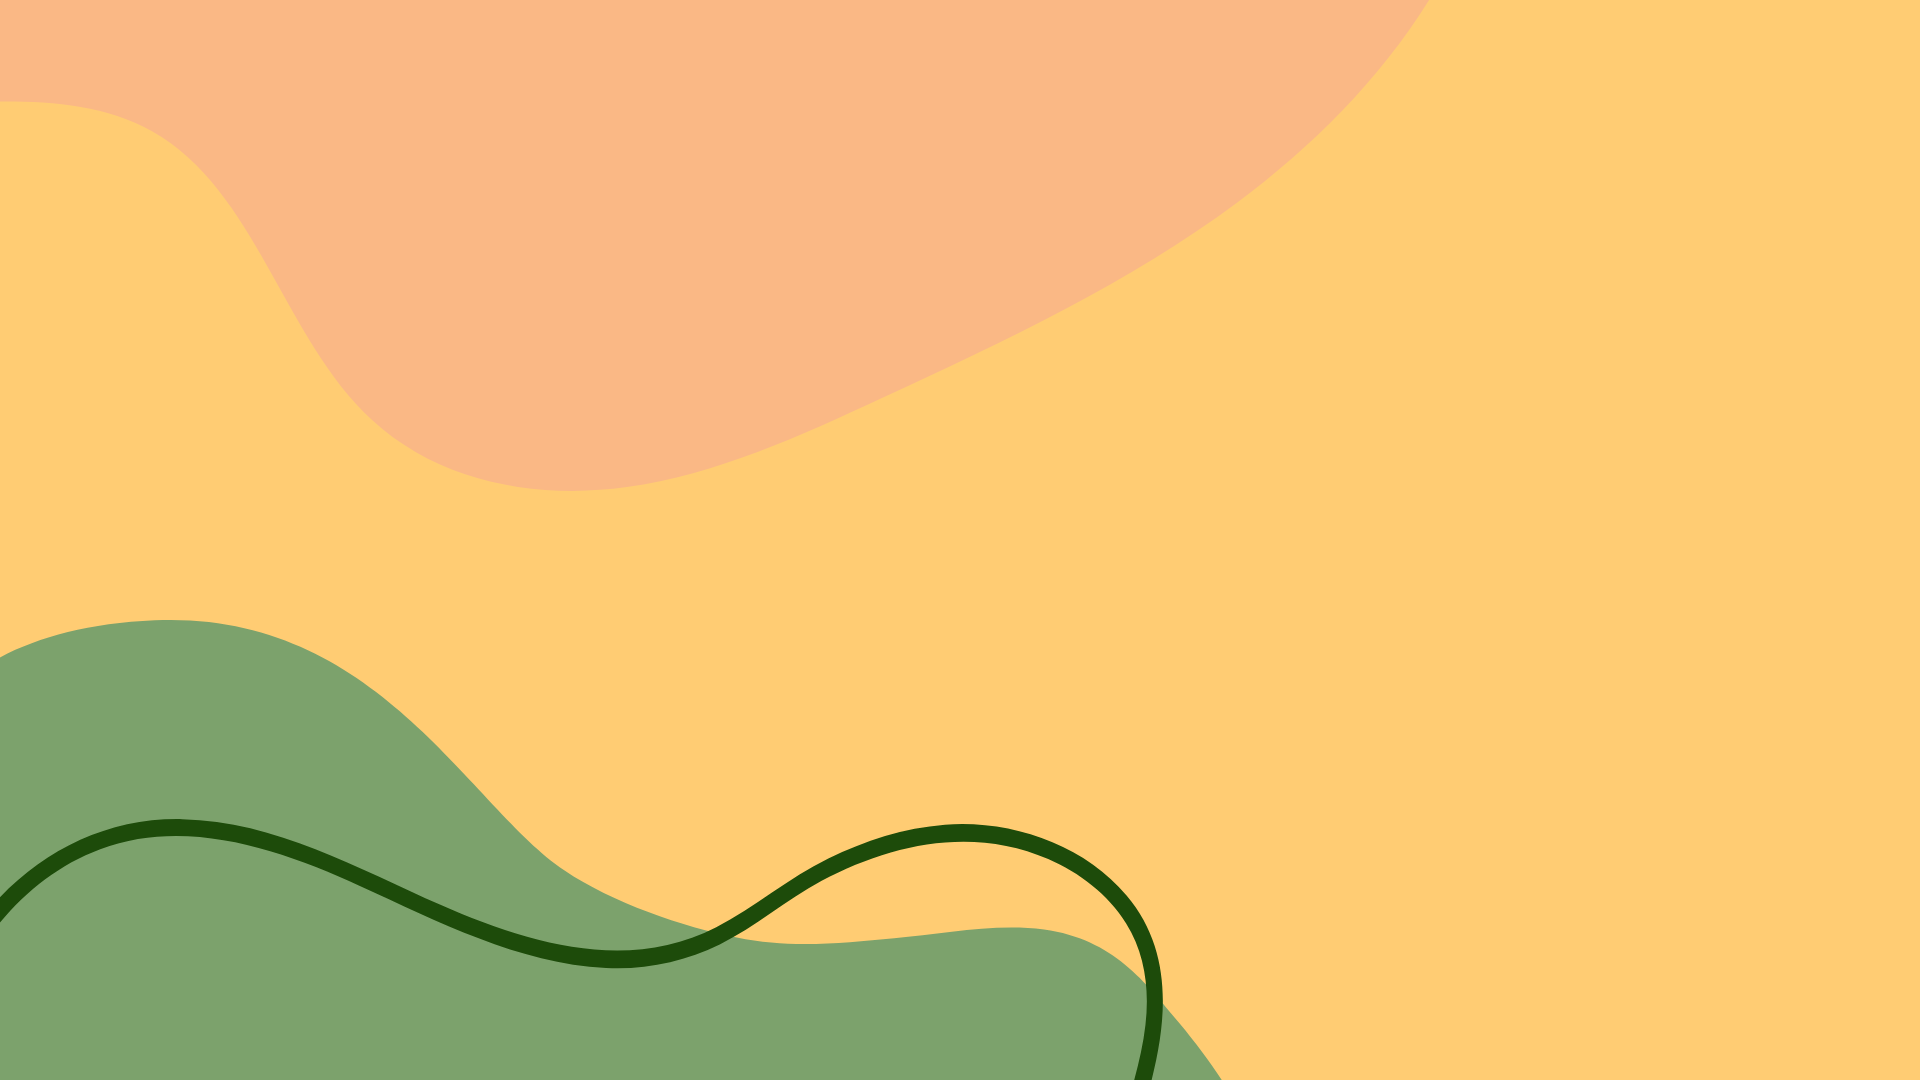
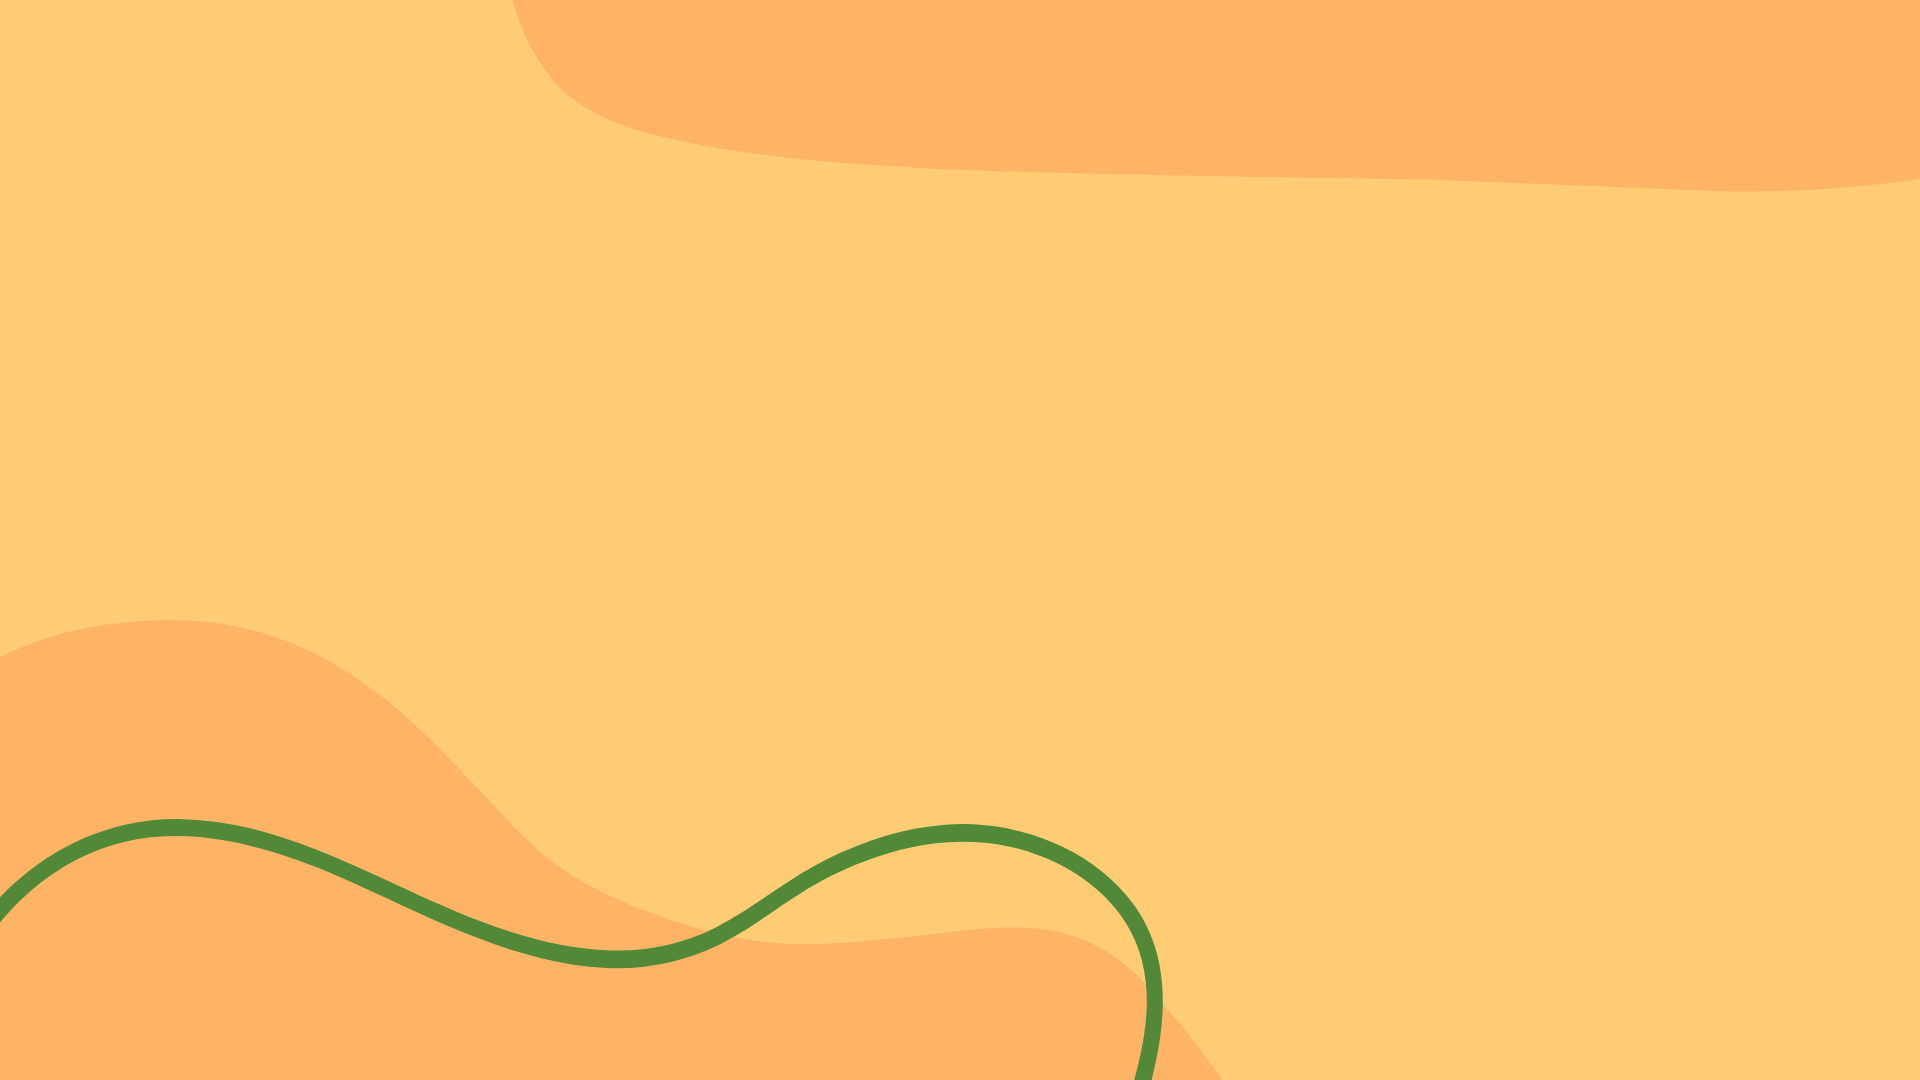
home page design

Changed region(s): [[0.0, 0.55, 0.6562, 1.0], [0.25, 0.0, 0.75, 0.1833]]

diff --git a/app/components/navbar.js b/app/components/navbar.js
@@ -7,7 +7,7 @@ export default function Navbar() {
   const [isOpen, setIsOpen] = useState(false);
 
   return (
-    <nav className="flex flex-col items-center justify-center bg-green text-black fixed w-full">
+    <nav className="flex flex-col items-center justify-center  text-black fixed w-full">
       <div className="max-w-7xl mx-auto px-2 sm:px-6 lg:px-8">
         <div className="relative flex items-center justify-between h-16">
           <div className="absolute inset-y-0 left-0 flex items-center sm:hidden">
@@ -37,7 +37,7 @@ export default function Navbar() {
 
           {/* Logo */}
           <div className="flex-shrink-0">
-            <h1 className="text-white text-2xl font-bold">
+            <h1 className="text-white text-2xl font-bold px-1 rounded-lg">
               <Link href="/">MinGO</Link>
             </h1>
           </div>
@@ -45,10 +45,10 @@ export default function Navbar() {
           {/* Links */}
           <div className="hidden sm:block sm:ml-6">
             <div className="flex space-x-4">
-              <Link href="/events" className="text-white px-3 py-2 rounded-md text-lg font-medium hover:bg-green-600">
+              <Link href="/events" className="text-white px-3 py-2 rounded-md text-lg font-medium hover:bg-orange-600">
                 Events
               </Link>
-              <Link href="/mingos" className="text-white px-3 py-2 rounded-md text-lg font-medium hover:bg-green-600">
+              <Link href="/mingos" className="text-white px-3 py-2 rounded-md text-lg font-medium hover:bg-orange-600">
                 My Mingos
               </Link>
             </div>

diff --git a/app/page.js b/app/page.js
@@ -1,4 +1,4 @@
-"use client"
+"use client";
 
 import Link from 'next/link';
 import Image from 'next/image';
@@ -6,13 +6,22 @@ import Script from 'next/script'; // Import Script component from Next.js
 import pfp from '../app/images/pfp.jpeg';
 import Navbar from './components/navbar.js';
 import mango from '../app/images/mango.png';
+import bg from '../app/images/bg.png'; // Import the background image
 
 export default function Home() {
   return (
-    <div className="flex flex-col items-center justify-center bg-green text-black p-16 min-h-screen" >
+    <div
+      className="flex flex-col items-center justify-center text-black p-16 min-h-screen"
+      style={{
+        backgroundImage: `url(${bg.src})`, // Set the imported image as the background
+        backgroundSize: 'cover',           // Make the background cover the entire div
+        backgroundPosition: 'center',      // Center the background image
+        backgroundRepeat: 'no-repeat',     // Prevent the background from repeating
+      }}
+    >
       <div className="flex-grow grid grid-rows-3 grid-flow-col gap-4 w-3/4 mt-8">
         <div className="row-span-4 bg-lightGreen p-8 rounded-lg text-center shadow-md flex flex-col justify-center items-center text-xl">
-          <h1 className="">PROFILE</h1>
+          <h1 className="bg-green px-2 rounded-lg">PROFILE</h1>
           <Image 
             src={pfp}
             alt="Profile Picture"

diff --git a/app/events/page.js b/app/events/page.js
@@ -49,10 +49,10 @@ const events = [
 
 export default function EventsPage() {
   return (
-    <div className="h-screen flex items-center justify-center bg-lightGreen p-8">
-      <div className="w-full max-w-6xl">
+    <div className="h-screen flex items-center justify-center bg-green p-8">
+      <div className="w-full max-w-6xl pt-2">
         <Typography variant="h4" color="text.primary" align="center" gutterBottom>
-          Upcoming Events
+          UPCOMING EVENTS
         </Typography>
         {/* Scrollable Container */}
         <div className="grid gap-4 overflow-y-scroll max-h-[75vh] p-4 bg-white rounded-lg shadow-md">
